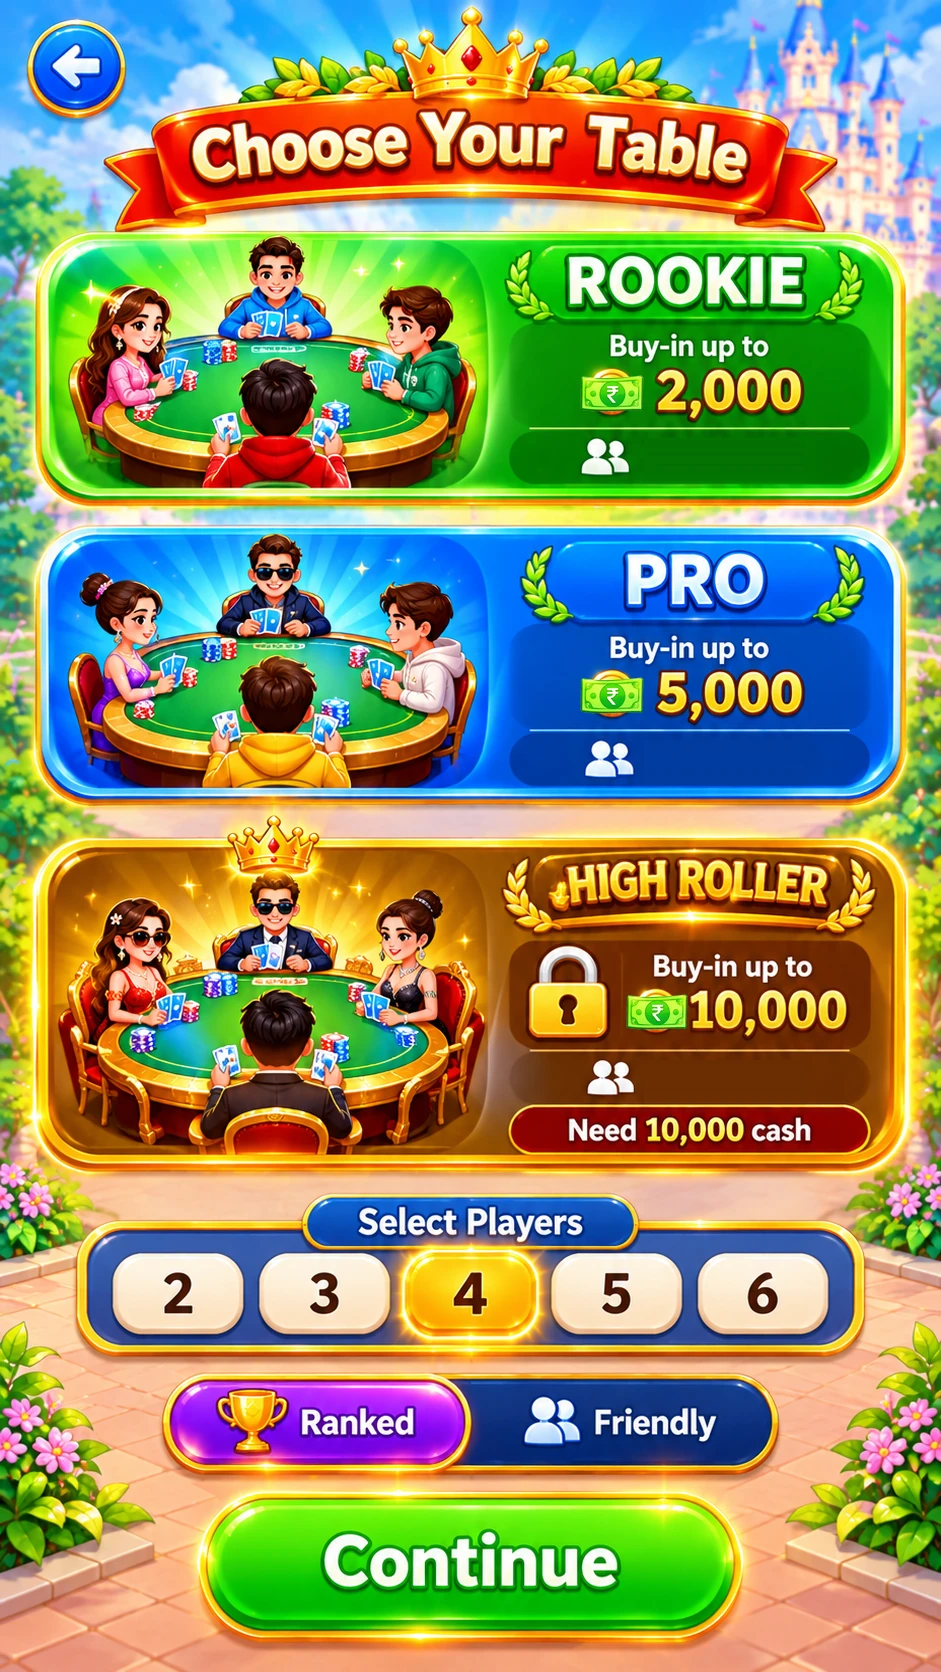
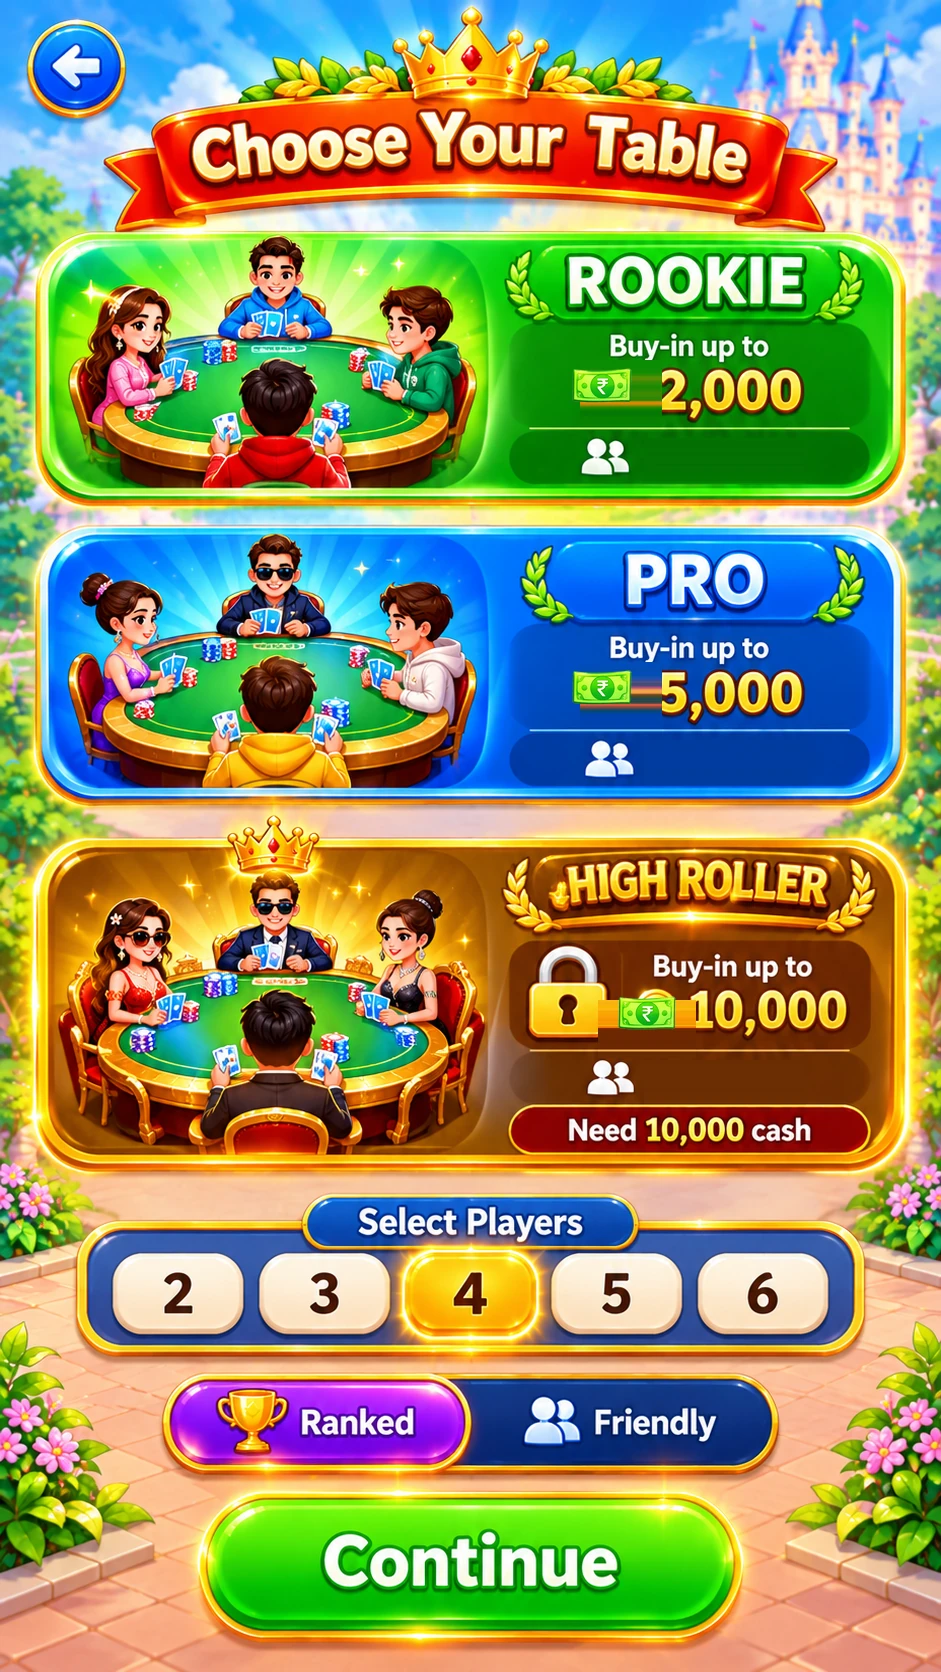
Table select fixes: pro lock/pill placement, banknote spacing, playing rows, brown 4

Changed region(s): [[0.5855, 0.3732, 0.7088, 0.4354], [0.6164, 0.5909, 0.7396, 0.622], [0.5855, 0.2177, 0.7088, 0.2488]]

diff --git a/index.html b/index.html
@@ -649,7 +649,7 @@ input[type=range]::-moz-range-thumb{width:26px;height:26px;border:3px solid #fff
 /* ================= TABLE SELECT ================= */
 .ts-txt{position:absolute;z-index:4;display:flex;align-items:center;justify-content:center;
   font-family:'Baloo 2',system-ui,sans-serif;font-weight:800;color:#fff;line-height:1;white-space:nowrap}
-.ts-count{left:644px;width:238px;height:44px;font-size:34px;text-shadow:0 2px 3px rgba(0,0,0,.45)}
+.ts-count{left:700px;width:200px;height:44px;font-size:31px;justify-content:flex-start;text-shadow:0 2px 3px rgba(0,0,0,.45)}
 #cnt0{top:440px}
 #cnt1{top:742px}
 #cnt2{top:1062px}
@@ -669,11 +669,12 @@ input[type=range]::-moz-range-thumb{width:26px;height:26px;border:3px solid #fff
   display:none;align-items:center;justify-content:flex-start;pointer-events:none}
 .ts-prolock.on{display:flex}
 .ts-prolock::before{content:"";position:absolute;inset:0;background:rgba(8,16,40,.35);border-radius:46px}
-.ts-prolock img{position:absolute;left:520px;top:118px;width:64px;height:64px;filter:drop-shadow(0 3px 5px rgba(0,0,0,.4))}
-.ts-prolock span{position:absolute;left:470px;top:268px;padding:8px 26px;border-radius:22px;
-  background:linear-gradient(180deg,#e8402a,#a81b0c);border:3px solid #ffd8d0;color:#fff;
-  font-family:'Baloo 2',system-ui,sans-serif;font-size:24px;font-weight:800;white-space:nowrap;
-  text-shadow:0 2px 0 rgba(0,0,0,.3);box-shadow:0 4px 10px rgba(0,0,0,.35)}
+.ts-prolock img{position:absolute;left:505px;top:92px;width:66px;height:72px;filter:drop-shadow(0 3px 5px rgba(0,0,0,.4))}
+.ts-prolock span{position:absolute;left:470px;top:256px;width:360px;height:42px;border-radius:25px;
+  display:flex;align-items:center;justify-content:center;
+  background:linear-gradient(180deg,#a8271a,#8b0201);border:2px solid #d9695a;color:#fff;
+  font-family:'Baloo 2',system-ui,sans-serif;font-size:25px;font-weight:800;white-space:nowrap;
+  text-shadow:0 2px 0 rgba(0,0,0,.45);box-shadow:0 3px 8px rgba(0,0,0,.35)}
 
 .pn{position:absolute;top:1250px;height:90px;background:none;border:0;padding:0;z-index:4;
   transition:transform .1s}
@@ -682,7 +683,7 @@ input[type=range]::-moz-range-thumb{width:26px;height:26px;border:3px solid #fff
 .pn span{position:absolute;inset:0;display:flex;align-items:center;justify-content:center;
   font-family:'Baloo 2',system-ui,sans-serif;font-size:46px;font-weight:800;color:#5b2a06;
   text-shadow:0 2px 0 rgba(255,255,255,.55);pointer-events:none}
-.pn.on span{color:#fff;text-shadow:0 3px 0 #b5651d,0 0 3px #b5651d}
+.pn.on span{color:#5A3410;text-shadow:0 2px 0 rgba(255,255,255,.35)}
 
 .ts-tap{position:absolute;background:transparent;border:0;padding:0;z-index:6;transition:transform .1s}
 .ts-tap:active{transform:scale(.97)}

diff --git a/sw.js b/sw.js
@@ -1,7 +1,7 @@
 /* Game of Wealth - offline shell.
    Documents are network-first so a new deploy shows up on the next load;
    everything else is cache-first with a background refresh. */
-const CACHE = 'gow-v12';
+const CACHE = 'gow-v13';
 const ASSETS = ['./', './index.html', './manifest.json', './icon.svg',
   './assets/bg-garden.webp', './assets/logo.webp', './assets/baloo.woff2',
   './assets/ic-cash1.webp', './assets/ic-lock.webp',
